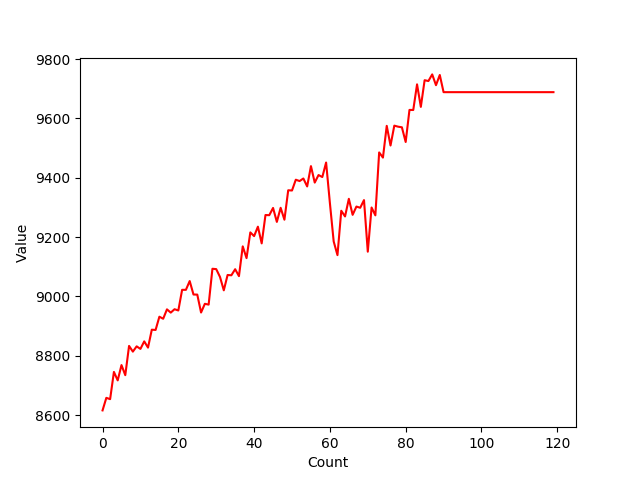
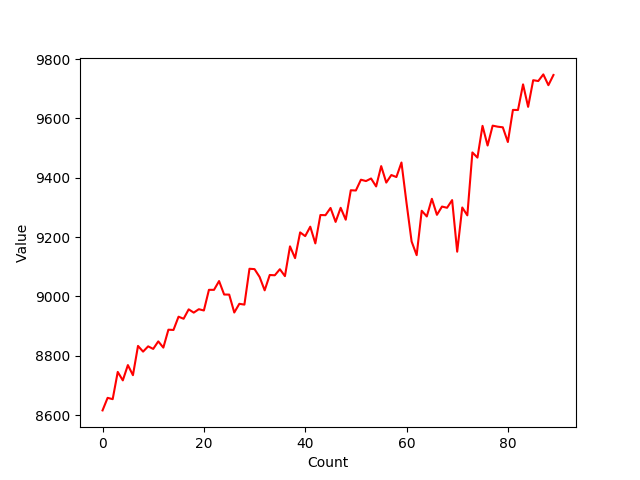
Automated Commision

diff --git a/service.py b/service.py
@@ -81,28 +81,7 @@ def long_term_prediction(stock, _range, model_name):
     prediction_matrix = []
     for val in timeseries.raw_matrix():
         prediction_matrix.append(rescale(val, timeseries.minimum(), timeseries.maximum()))
-
-    while count < _range:
-        matrix, prediction = rolling_mean_trend(timeseries, MONTH)
-        matrix = sampling(matrix, 0, 2, STANDARD_SAMPLING_RANGE)
-        timeseries.set_sampled_matrix(matrix)
-
-        result = predictor.predict(timeseries)
-        value = 0.00
-        for i in range(result.shape[0]):
-            for j in range(result.shape[1]):
-                value = rescale(result[i][j], timeseries.minimum(), timeseries.maximum())
-        prediction_matrix.append(value)
-        # append the prediction value to the raw matrix of the timeseries
-        raw = []
-        for i in range(0, timeseries.raw_size()):
-            raw.append(rescale(timeseries.raw_datapoint(i), timeseries.minimum(), timeseries.maximum()))
-        raw.append(value)
-        timeseries.set_raw_matrix(raw)
-        count += 1
-        if count % 10 == 0:
-            print('Long Term Prediction: [Count = ', count, ']')
-    print("\n\n")
+    print(timeseries.raw_size())
     return prediction_matrix
 def visualize_model_prediction(stock, model_name):
     dataset = partition_time_series(stock, QUARTER, 0)
